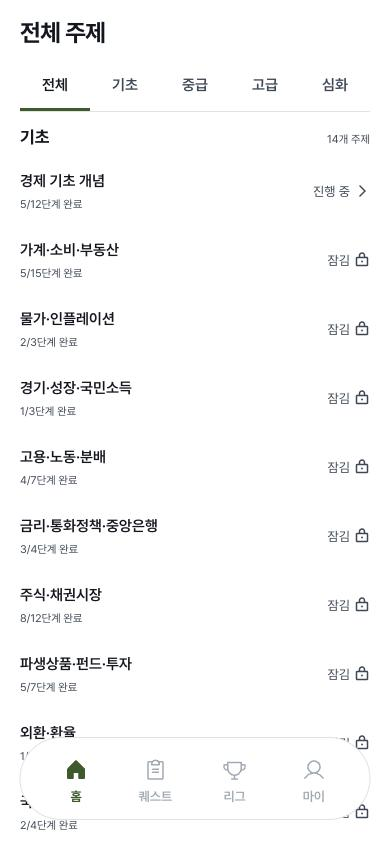
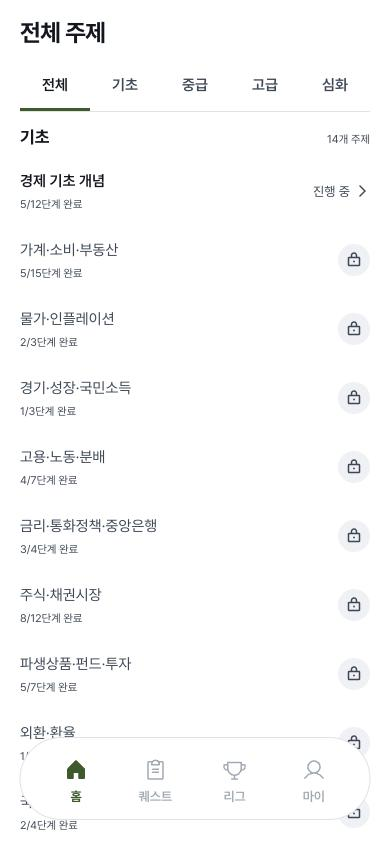
전체 주제 목록 잠김을 글자 대신 회색 원 자물쇠로, 잠긴 줄 제목은 흐리게(TDS ListRow가 disabled를 안 넘겨 data-locked 사용)

diff --git a/src/pages/CourseScreen.tsx b/src/pages/CourseScreen.tsx
@@ -459,13 +459,16 @@ const CourseScreen = () => {
               // 같은 책 아이콘 반복 대신 상태 글자와 화살표만 둔다
               return <React.Fragment key={`${topic.level}-${topic.category}`}>
               {levelHeading && <h3 className="course-home-level-heading">{topic.level}<span>{visibleTopics.filter(t => t.level === topic.level).length}개 주제</span></h3>}
-              <ListRow as="button" border="none" disabled={locked} data-topic-index={topic.index} data-current={isCurrent || undefined}
+              <ListRow as="button" border="none" disabled={locked} data-locked={locked || undefined} data-topic-index={topic.index} data-current={isCurrent || undefined}
                 onClick={() => navigate(`/course?topic=${topic.index}`)} aria-label={`${topic.level} ${topic.category} 주제 열기`} aria-describedby={`topic-summary-${topic.index}`} className="course-home-topic w-full"
                 contents={<span className="flex flex-col">
                   <span className="course-home-topic-title">{topic.category}</span>
                   <span id={`topic-summary-${topic.index}`} className="course-home-topic-meta">{steps.done}/{steps.total}단계 완료</span>
                 </span>}
-                right={<span className="flex items-center gap-1 text-xs text-[var(--color-ink-3)]">{locked ? '잠김' : done ? '완료' : steps.done > 0 || topic.known > 0 ? '진행 중' : '시작 가능'}{locked ? <LockKeyhole size={16} aria-hidden="true" /> : <ChevronRight size={16} aria-hidden="true" />}</span>}
+                right={locked
+                  // 잠김은 글자 대신 회색 원 안 자물쇠로 보여 준다(글자는 화면 읽기용)
+                  ? <span className="course-topic-lock"><LockKeyhole size={16} aria-hidden="true" /><span className="sr-only">잠김</span></span>
+                  : <span className="flex items-center gap-1 text-xs text-[var(--color-ink-3)]">{done ? '완료' : steps.done > 0 || topic.known > 0 ? '진행 중' : '시작 가능'}<ChevronRight size={16} aria-hidden="true" /></span>}
               />
               </React.Fragment>;
             })}

diff --git a/src/index.css b/src/index.css
@@ -543,7 +543,10 @@ button.course-home-topic:disabled { cursor: default; opacity: 1; }
 .course-home-topic-heading { display: flex; align-items: center; gap: var(--space-2); }
 .course-home-topic-heading > svg { flex-shrink: 0; color: var(--color-ink-4); }
 .course-home-topic-title { flex: 1; min-width: 0; color: var(--color-ink); font-size: var(--font-size-item-title); font-weight: var(--font-weight-semibold); line-height: var(--line-height-body); word-break: keep-all; overflow-wrap: anywhere; }
-button.course-home-topic:disabled .course-home-topic-title { color: var(--color-ink-3); }
+/* TDS ListRow는 disabled를 버튼에 넘기지 않아 data-locked로 흐리게 한다 */
+button.course-home-topic:is(:disabled, [data-locked]) .course-home-topic-title { color: var(--color-ink-3); font-weight: var(--font-weight-regular); }
+button.course-home-topic:is(:disabled, [data-locked]) .course-home-topic-meta { color: var(--color-ink-4); }
+.course-topic-lock { display: inline-flex; width: 32px; height: 32px; align-items: center; justify-content: center; border-radius: 50%; background: var(--color-neutral-soft); color: var(--color-ink-3); }
 .course-home-topic-meta { display: flex; justify-content: space-between; flex-wrap: wrap; gap: var(--space-1) var(--space-3); margin-top: var(--space-1); color: var(--color-ink-3); font-size: var(--font-size-caption); line-height: var(--line-height-body); }
 @media (max-width: 359px) {
   .course-home-hero-title { font-size: var(--font-size-title-3); }
